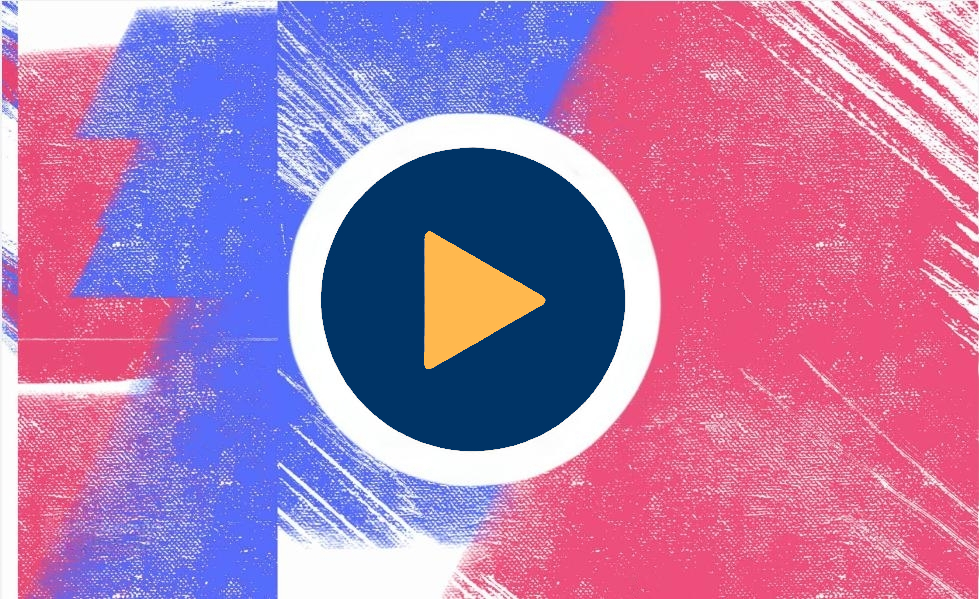
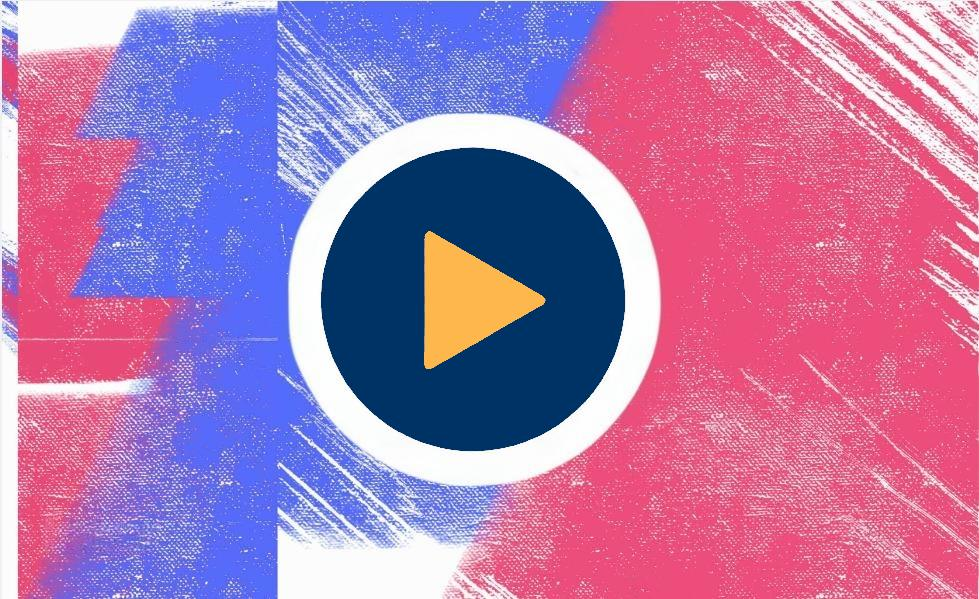
corregido bug de imagen al hacer build x2

diff --git a/src/views/Presentacion_V.vue b/src/views/Presentacion_V.vue
@@ -21,7 +21,7 @@
             <div>			
                 <h1>Presentación</h1>
                 <p class="invitation">Reproduce el video para ver presentación</p> 
-                    <img v-if="flag" @click="player" src="src/assets/misproy/play.jpg" alt="click para reproducir" class="iframe" style="cursor: pointer">                            
+                    <img v-if="flag" @click="player" src="/src/assets/misproy/play.jpg" alt="click para reproducir" class="iframe" style="cursor: pointer">                            
                     <iframe v-else="flag" :class="{'active': isActive}" class="iframe" src="https://www.youtube.com/embed/lN2i53jiA84?autoplay=1" title="YouTube video player" frameborder="0" allow="accelerometer; autoplay; clipboard-write; encrypted-media; gyroscope; picture-in-picture" allowfullscreen>
                     </iframe> 
                     <p id="game">Juega tetris, puedes usar los botones del costado derecho o las teclas 'R', 'P' y las flechas.</p>
